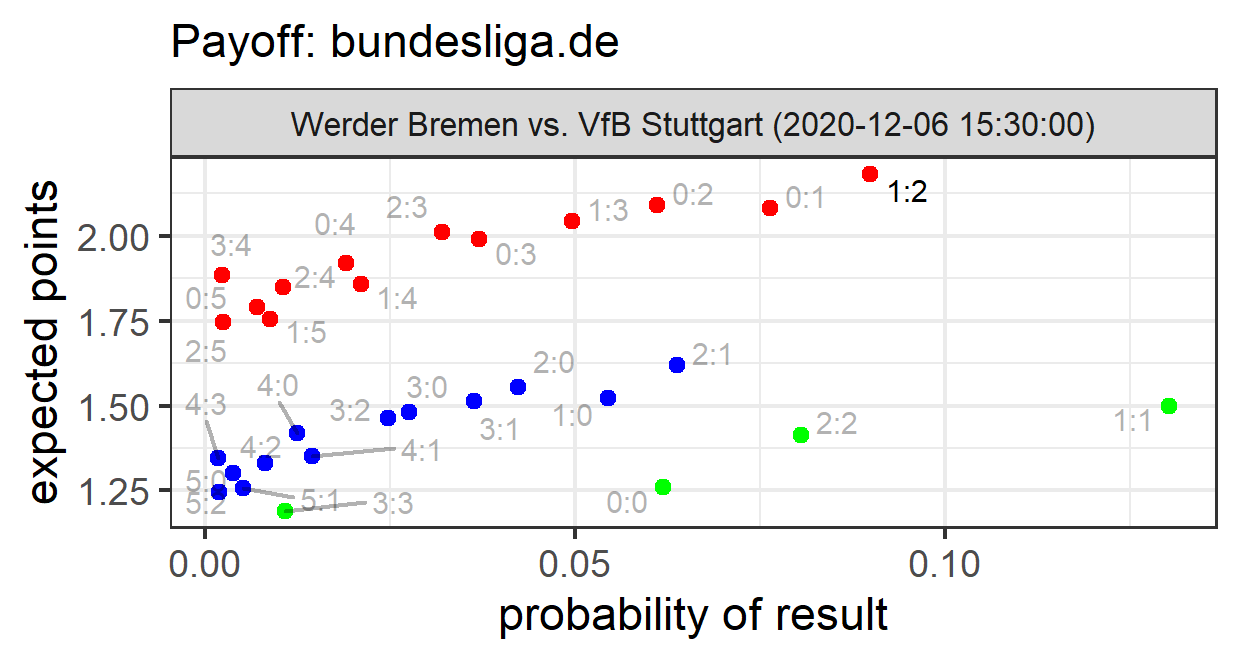
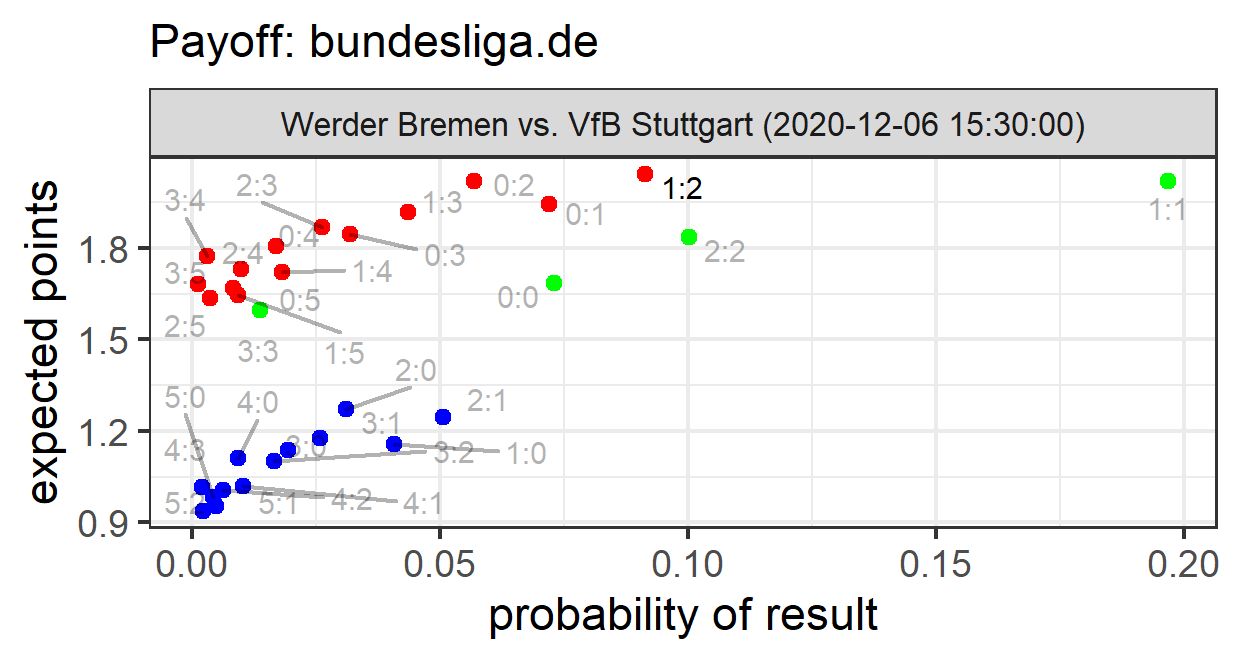
kicktipp update md 10

diff --git a/index.html b/index.html
@@ -135,18 +135,18 @@ tr:nth-child(even){background-color: #f2f2f2}
 <div style="overflow-x:auto;">
 
 <!-- html table generated in R 4.0.2 by xtable 1.8-4 package -->
-<!-- Thu Dec 03 21:41:48 2020 -->
+<!-- Thu Dec 03 21:53:05 2020 -->
 <table border=1>
 <tr> <th>  </th> <th> date </th> <th> game </th> <th> exp_bl </th> <th> exp_432 </th>  </tr>
-  <tr> <td align="right"> 1 </td> <td> 2020-12-04 21:30 </td> <td> Hertha BSC : 1. FC Union Berlin </td> <td> 1:2 (1.886) </td> <td> 1:2 (0.9697) </td> </tr>
-  <tr> <td align="right"> 2 </td> <td> 2020-12-05 16:30 </td> <td> Arminia Bielefeld : 1. FSV Mainz 05 </td> <td> 2:1 (2.89) </td> <td> 2:1 (1.482) </td> </tr>
-  <tr> <td align="right"> 3 </td> <td> 2020-12-05 16:30 </td> <td> Eintracht Frankfurt : BV Borussia Dortmund 09 </td> <td> 1:2 (2.773) </td> <td> 1:2 (1.437) </td> </tr>
-  <tr> <td align="right"> 4 </td> <td> 2020-12-05 16:30 </td> <td> SC Freiburg : Borussia Mönchengladbach </td> <td> 1:2 (2.689) </td> <td> 1:2 (1.395) </td> </tr>
-  <tr> <td align="right"> 5 </td> <td> 2020-12-05 16:30 </td> <td> 1. FC Köln : VfL Wolfsburg </td> <td> 1:2 (2.132) </td> <td> 1:2 (1.077) </td> </tr>
-  <tr> <td align="right"> 6 </td> <td> 2020-12-05 19:30 </td> <td> FC Bayern München : RB Leipzig </td> <td> 3:1 (3.126)*J </td> <td> 2:1 (1.598)*J </td> </tr>
-  <tr> <td align="right"> 7 </td> <td> 2020-12-06 16:30 </td> <td> Werder Bremen : VfB Stuttgart </td> <td> 1:2 (2.183) </td> <td> 1:2 (1.128) </td> </tr>
-  <tr> <td align="right"> 8 </td> <td> 2020-12-06 19:00 </td> <td> FC Schalke 04 : Bayer Leverkusen </td> <td> 1:2 (2.76) </td> <td> 0:1 (1.413) </td> </tr>
-  <tr> <td align="right"> 9 </td> <td> 2020-12-07 21:30 </td> <td> TSG 1899 Hoffenheim : FC Augsburg </td> <td> 2:1 (2.366) </td> <td> 2:1 (1.209) </td> </tr>
+  <tr> <td align="right"> 1 </td> <td> 2020-12-04 21:30 </td> <td> Hertha BSC : 1. FC Union Berlin </td> <td> 1:1 (2.111) </td> <td> 1:1 (1.224) </td> </tr>
+  <tr> <td align="right"> 2 </td> <td> 2020-12-05 16:30 </td> <td> Arminia Bielefeld : 1. FSV Mainz 05 </td> <td> 2:1 (2.453) </td> <td> 2:1 (1.253) </td> </tr>
+  <tr> <td align="right"> 3 </td> <td> 2020-12-05 16:30 </td> <td> Eintracht Frankfurt : BV Borussia Dortmund 09 </td> <td> 1:2 (2.625) </td> <td> 1:2 (1.37) </td> </tr>
+  <tr> <td align="right"> 4 </td> <td> 2020-12-05 16:30 </td> <td> SC Freiburg : Borussia Mönchengladbach </td> <td> 0:2 (2.543) </td> <td> 1:2 (1.327) </td> </tr>
+  <tr> <td align="right"> 5 </td> <td> 2020-12-05 16:30 </td> <td> 1. FC Köln : VfL Wolfsburg </td> <td> 1:2 (2.125) </td> <td> 1:2 (1.094) </td> </tr>
+  <tr> <td align="right"> 6 </td> <td> 2020-12-05 19:30 </td> <td> FC Bayern München : RB Leipzig </td> <td> 3:1 (2.802) </td> <td> 3:1 (1.403) </td> </tr>
+  <tr> <td align="right"> 7 </td> <td> 2020-12-06 16:30 </td> <td> Werder Bremen : VfB Stuttgart </td> <td> 1:2 (2.045) </td> <td> 1:1 (1.163) </td> </tr>
+  <tr> <td align="right"> 8 </td> <td> 2020-12-06 19:00 </td> <td> FC Schalke 04 : Bayer Leverkusen </td> <td> 0:2 (2.859)*J </td> <td> 0:1 (1.429)*J </td> </tr>
+  <tr> <td align="right"> 9 </td> <td> 2020-12-07 21:30 </td> <td> TSG 1899 Hoffenheim : FC Augsburg </td> <td> 2:0 (1.992) </td> <td> 1:1 (1.065) </td> </tr>
    </table>
 
 
